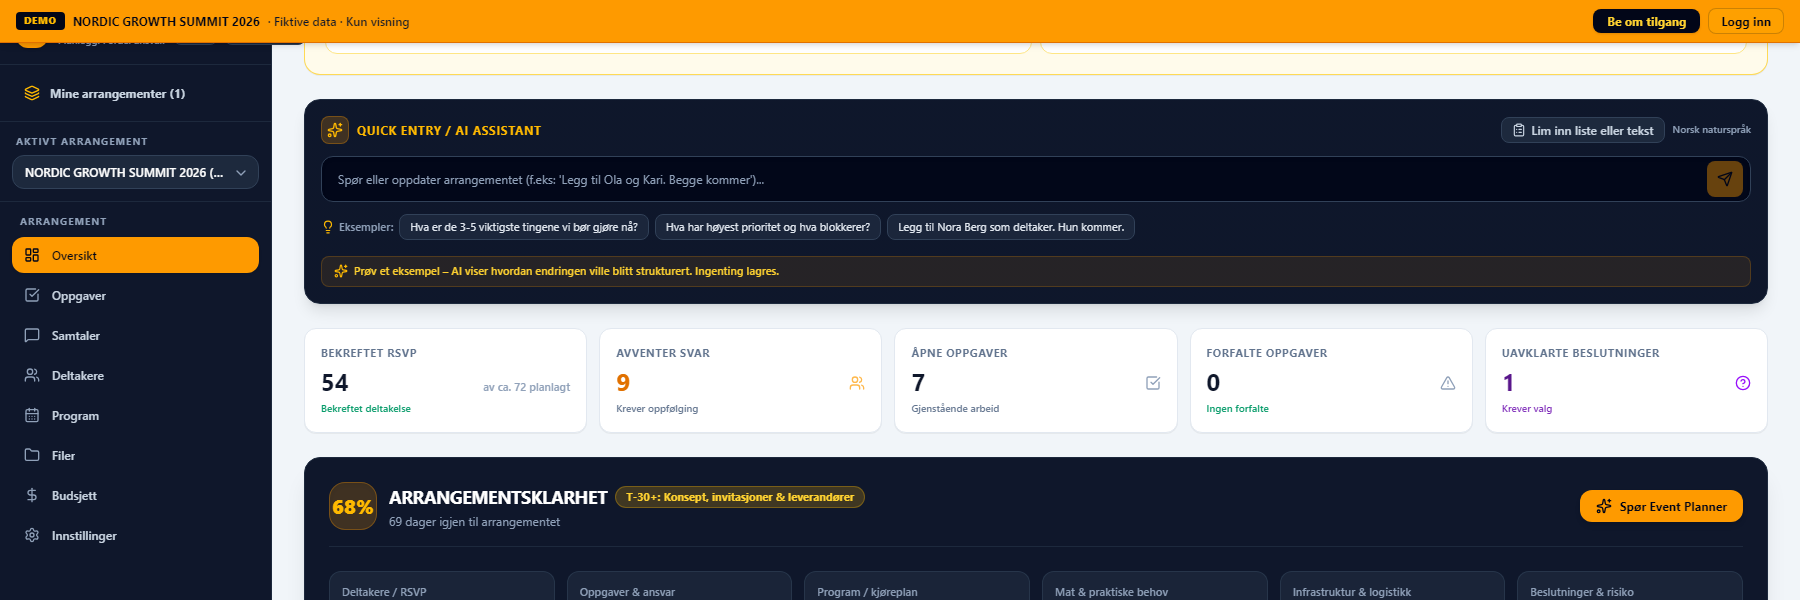
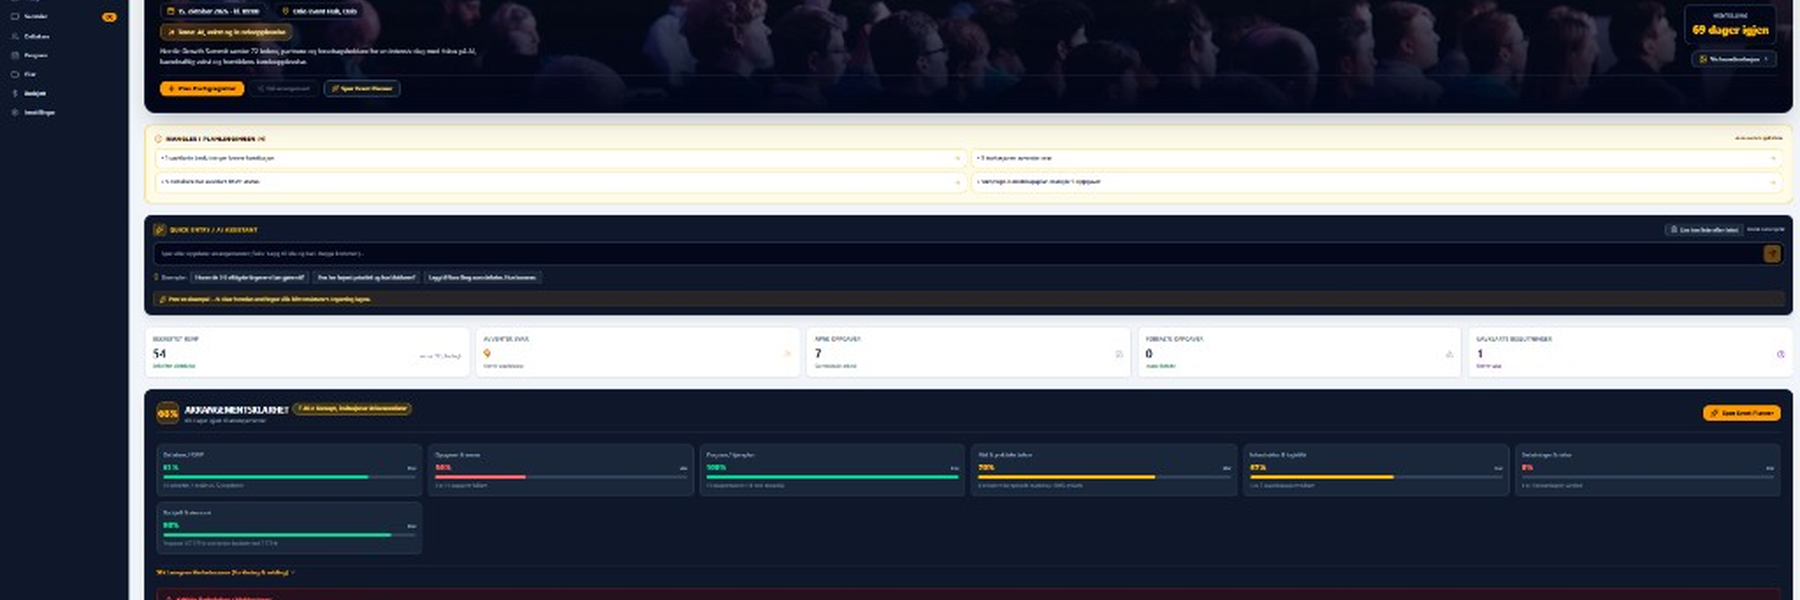
Juster Event Planner-screenshots mot oppdatert demo-referanse.
Landscape hero fra vedlagt demo (66% readiness, Budsjett 91%). Portrett viser hero og venstremeny. Cache-buster 20260808b.

diff --git a/src/app/data/projects-v2/overview-image-audit.ts b/src/app/data/projects-v2/overview-image-audit.ts
@@ -166,7 +166,7 @@ export const overviewImageAudit: OverviewImageAuditEntry[] = [
   },
   {
     projectId: "event-planner-2026-08",
-    overviewImage: "/images/event-planner-hjemmeside.png?v=20260808a",
+    overviewImage: "/images/event-planner-hjemmeside.png?v=20260808b",
     aspectNote: "Vertikalt 1:3 oversiktsbilde — Nordic Growth Summit 2026 public demo (fiktive data)",
     fit: "contain",
     needsNewOverviewImage: false,

diff --git a/src/app/lib/event-planner-brand.ts b/src/app/lib/event-planner-brand.ts
@@ -12,7 +12,7 @@ export const EVENT_PLANNER_DEMO_URL = `${EVENT_PLANNER_APP_URL}?demo=1`;
  * Cache-buster for prosjektbilder. Oppdater når nye skjermbilder fra demo er klare
  * (erstatt filene i public/images/ — samme filnavn og dimensjoner).
  */
-export const EVENT_PLANNER_IMAGE_VERSION = "20260808a";
+export const EVENT_PLANNER_IMAGE_VERSION = "20260808b";
 
 /**
  * Event Planner — porteføljesti og merkevare.

diff --git a/src/app/data/projects-v2/detail-hero-audit.ts b/src/app/data/projects-v2/detail-hero-audit.ts
@@ -147,7 +147,7 @@ export const detailHeroAudit: DetailHeroAuditEntry[] = [
   {
     route: "/event-planner",
     projectId: "event-planner-2026-08",
-    heroImage: "/images/event-planner-hero.png?v=20260808a",
+    heroImage: "/images/event-planner-hero.png?v=20260808b",
     aspectNote: "Horisontalt banner — 3:1 landscape for detaljside",
     objectPosition: "center",
     fit: "contain",

diff --git a/scripts/crop-event-planner-hero-from-reference.py b/scripts/crop-event-planner-hero-from-reference.py
@@ -1,0 +1,30 @@
+"""Crop landscape hero (1800×600) from the current demo reference screenshot."""
+
+from __future__ import annotations
+
+from pathlib import Path
+
+from PIL import Image
+
+ROOT = Path(__file__).resolve().parents[1]
+REF = ROOT / "scripts" / "assets" / "event-planner-demo-reference.png"
+OUT = ROOT / "public" / "images" / "event-planner-hero.png"
+
+TARGET_W, TARGET_H = 1800, 600
+# Vertical offset after scaling to 1800 px width — balances hero, KPI and readiness incl. Budsjett & økonomi.
+CROP_TOP = 140
+
+
+def main() -> None:
+    im = Image.open(REF)
+    scale = TARGET_W / im.width
+    scaled_h = int(im.height * scale)
+    scaled = im.resize((TARGET_W, scaled_h), Image.Resampling.LANCZOS)
+    crop = scaled.crop((0, CROP_TOP, TARGET_W, CROP_TOP + TARGET_H))
+    OUT.parent.mkdir(parents=True, exist_ok=True)
+    crop.save(OUT, "PNG", optimize=True)
+    print(f"Saved {OUT} ({TARGET_W}x{TARGET_H}) from reference crop top={CROP_TOP}")
+
+
+if __name__ == "__main__":
+    main()
